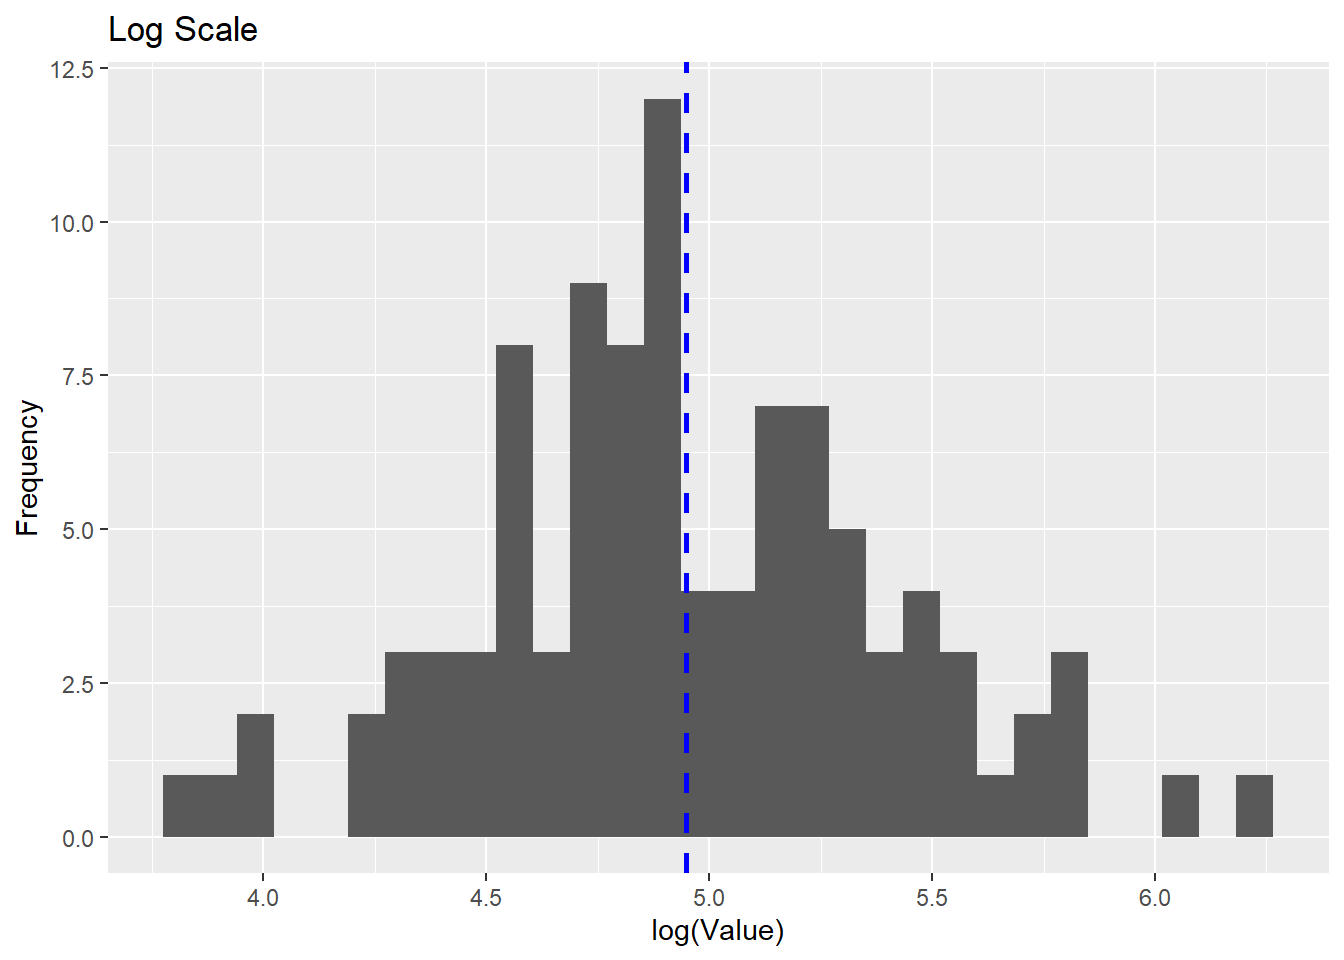
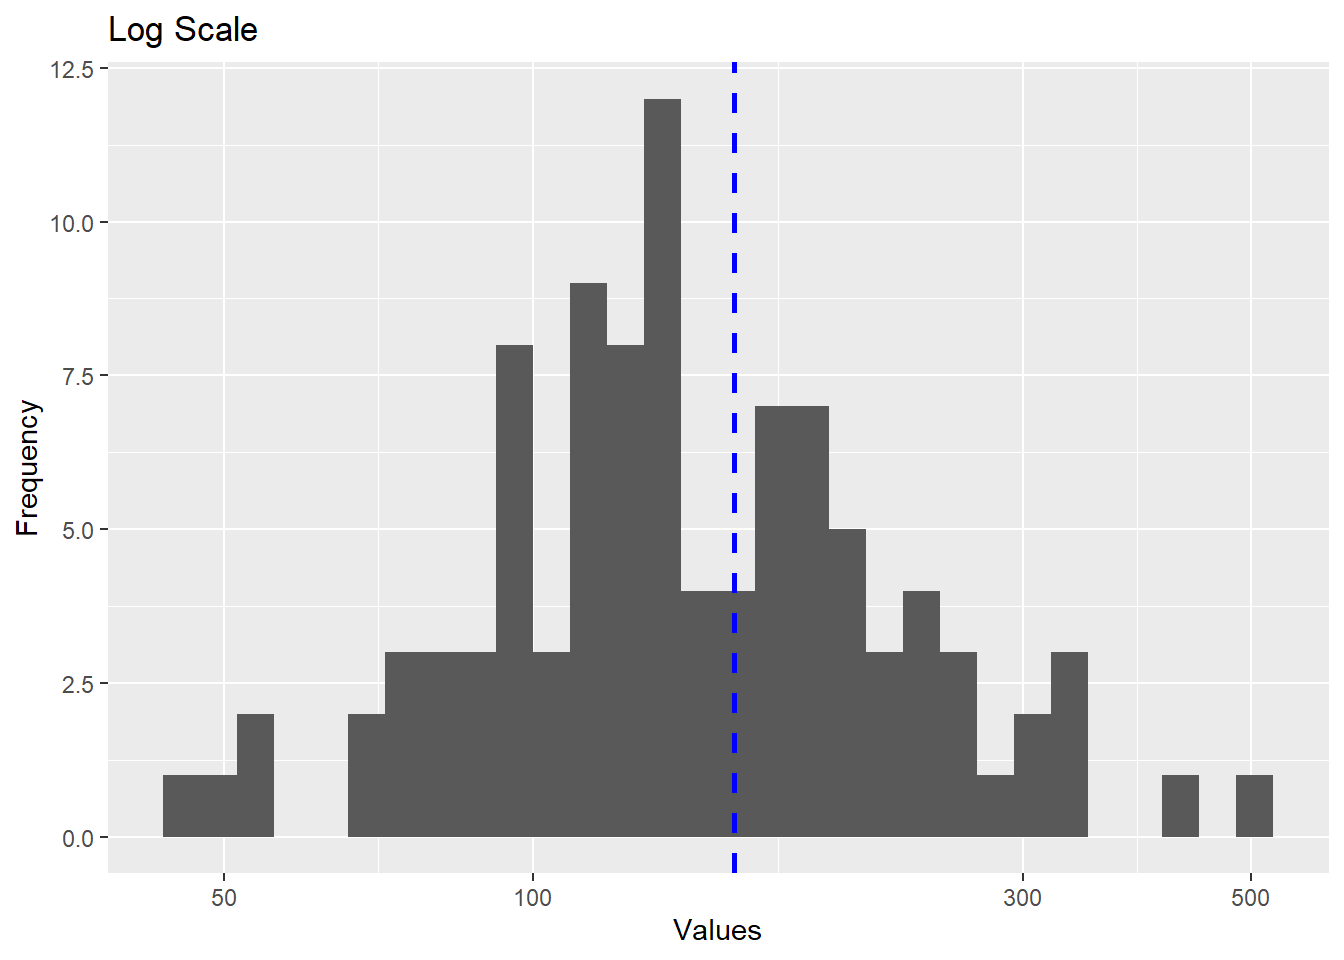
log_scaled_coreectly

diff --git a/Ex1/quartoR.html b/Ex1/quartoR.html
@@ -145,13 +145,14 @@ pre > code.sourceCode > span > a:first-child::before { text-decoration: underlin
 <p><img src="quartoR_files/figure-html/unnamed-chunk-3-1.png" class="img-fluid" width="672"></p>
 </div>
 <div class="sourceCode cell-code" id="cb7"><pre class="sourceCode r code-with-copy"><code class="sourceCode r"><span id="cb7-1"><a href="#cb7-1" aria-hidden="true" tabindex="-1"></a><span class="co"># Create a log scale histogram</span></span>
-<span id="cb7-2"><a href="#cb7-2" aria-hidden="true" tabindex="-1"></a>log_hist <span class="ot">&lt;-</span> <span class="fu">ggplot</span>(df, <span class="fu">aes</span>(<span class="at">x =</span> <span class="fu">log</span>(samples))) <span class="sc">+</span></span>
+<span id="cb7-2"><a href="#cb7-2" aria-hidden="true" tabindex="-1"></a>log_hist <span class="ot">&lt;-</span> <span class="fu">ggplot</span>(df, <span class="fu">aes</span>(<span class="at">x =</span> samples)) <span class="sc">+</span></span>
 <span id="cb7-3"><a href="#cb7-3" aria-hidden="true" tabindex="-1"></a>  <span class="fu">geom_histogram</span>() <span class="sc">+</span></span>
-<span id="cb7-4"><a href="#cb7-4" aria-hidden="true" tabindex="-1"></a>    <span class="fu">geom_vline</span>(<span class="fu">aes</span>(<span class="at">xintercept=</span><span class="fu">mean</span>(<span class="fu">log</span>(samples))),</span>
+<span id="cb7-4"><a href="#cb7-4" aria-hidden="true" tabindex="-1"></a>    <span class="fu">geom_vline</span>(<span class="fu">aes</span>(<span class="at">xintercept=</span><span class="fu">mean</span>(samples)),</span>
 <span id="cb7-5"><a href="#cb7-5" aria-hidden="true" tabindex="-1"></a>            <span class="at">color=</span><span class="st">"blue"</span>, <span class="at">linetype=</span><span class="st">"dashed"</span>, <span class="at">linewidth=</span><span class="dv">1</span>) <span class="sc">+</span></span>
-<span id="cb7-6"><a href="#cb7-6" aria-hidden="true" tabindex="-1"></a>  <span class="fu">labs</span>(<span class="at">title =</span> <span class="st">"Log Scale"</span>, <span class="at">x =</span> <span class="st">"log(Value)"</span>, <span class="at">y =</span> <span class="st">"Frequency"</span>)</span>
-<span id="cb7-7"><a href="#cb7-7" aria-hidden="true" tabindex="-1"></a></span>
-<span id="cb7-8"><a href="#cb7-8" aria-hidden="true" tabindex="-1"></a>log_hist</span></code><button title="Copy to Clipboard" class="code-copy-button"><i class="bi"></i></button></pre></div>
+<span id="cb7-6"><a href="#cb7-6" aria-hidden="true" tabindex="-1"></a>  <span class="fu">labs</span>(<span class="at">title =</span> <span class="st">"Log Scale"</span>, <span class="at">x =</span> <span class="st">"Values"</span>, <span class="at">y =</span> <span class="st">"Frequency"</span>)<span class="sc">+</span></span>
+<span id="cb7-7"><a href="#cb7-7" aria-hidden="true" tabindex="-1"></a>  <span class="fu">scale_x_log10</span>()</span>
+<span id="cb7-8"><a href="#cb7-8" aria-hidden="true" tabindex="-1"></a></span>
+<span id="cb7-9"><a href="#cb7-9" aria-hidden="true" tabindex="-1"></a>log_hist</span></code><button title="Copy to Clipboard" class="code-copy-button"><i class="bi"></i></button></pre></div>
 <div class="cell-output cell-output-stderr">
 <pre><code>`stat_bin()` using `bins = 30`. Pick better value with `binwidth`.</code></pre>
 </div>
@@ -162,7 +163,7 @@ pre > code.sourceCode > span > a:first-child::before { text-decoration: underlin
 </section>
 <section id="violin-plots" class="level3">
 <h3 class="anchored" data-anchor-id="violin-plots">Violin Plots</h3>
-<p>Now we are focusing on Violon Plots:</p>
+<p>Now we are focusing on Violon Plots. The expected violin plots are as expected from the previous visualizations.</p>
 <div class="cell">
 <div class="sourceCode cell-code" id="cb9"><pre class="sourceCode r code-with-copy"><code class="sourceCode r"><span id="cb9-1"><a href="#cb9-1" aria-hidden="true" tabindex="-1"></a>violin <span class="ot">&lt;-</span> <span class="fu">ggplot</span>(df, <span class="fu">aes</span>(<span class="at">x =</span> <span class="st">""</span>, <span class="at">y =</span> samples)) <span class="sc">+</span> </span>
 <span id="cb9-2"><a href="#cb9-2" aria-hidden="true" tabindex="-1"></a>  <span class="fu">geom_violin</span>() <span class="sc">+</span> </span>
@@ -174,9 +175,11 @@ pre > code.sourceCode > span > a:first-child::before { text-decoration: underlin
 </div>
 <div class="sourceCode cell-code" id="cb10"><pre class="sourceCode r code-with-copy"><code class="sourceCode r"><span id="cb10-1"><a href="#cb10-1" aria-hidden="true" tabindex="-1"></a>log_violin <span class="ot">&lt;-</span> <span class="fu">ggplot</span>(df, <span class="fu">aes</span>(<span class="at">x =</span> <span class="st">""</span>, <span class="at">y =</span> <span class="fu">log</span>(samples))) <span class="sc">+</span> </span>
 <span id="cb10-2"><a href="#cb10-2" aria-hidden="true" tabindex="-1"></a>  <span class="fu">geom_violin</span>() <span class="sc">+</span> </span>
-<span id="cb10-3"><a href="#cb10-3" aria-hidden="true" tabindex="-1"></a>  <span class="fu">labs</span>(<span class="at">title =</span> <span class="st">"log Violon plot"</span>, <span class="at">y =</span> <span class="st">"log(Value)"</span>)</span>
-<span id="cb10-4"><a href="#cb10-4" aria-hidden="true" tabindex="-1"></a></span>
-<span id="cb10-5"><a href="#cb10-5" aria-hidden="true" tabindex="-1"></a>log_violin</span></code><button title="Copy to Clipboard" class="code-copy-button"><i class="bi"></i></button></pre></div>
+<span id="cb10-3"><a href="#cb10-3" aria-hidden="true" tabindex="-1"></a>  <span class="fu">labs</span>(<span class="at">title =</span> <span class="st">"log Violon plot"</span>, <span class="at">y =</span> <span class="st">"Value"</span>)<span class="sc">+</span></span>
+<span id="cb10-4"><a href="#cb10-4" aria-hidden="true" tabindex="-1"></a>  <span class="fu">scale_y_log10</span>()</span>
+<span id="cb10-5"><a href="#cb10-5" aria-hidden="true" tabindex="-1"></a>  </span>
+<span id="cb10-6"><a href="#cb10-6" aria-hidden="true" tabindex="-1"></a></span>
+<span id="cb10-7"><a href="#cb10-7" aria-hidden="true" tabindex="-1"></a>log_violin</span></code><button title="Copy to Clipboard" class="code-copy-button"><i class="bi"></i></button></pre></div>
 <div class="cell-output-display">
 <p><img src="quartoR_files/figure-html/unnamed-chunk-4-2.png" class="img-fluid" width="672"></p>
 </div>
